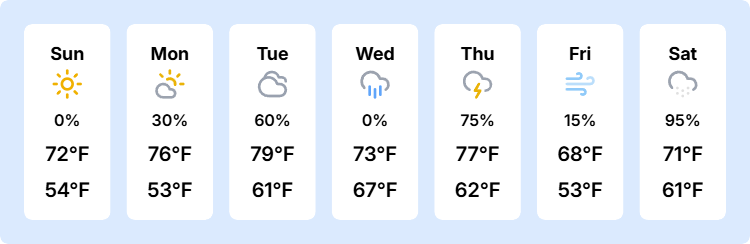
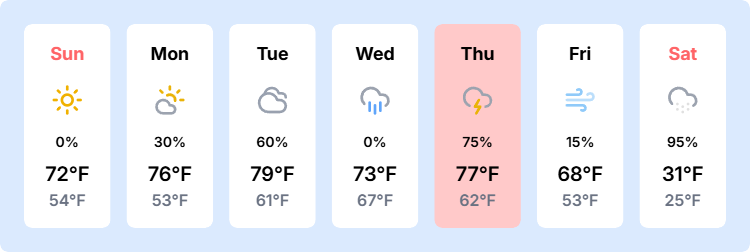
Modified temperature and precipitation display in forecast infographic (#23)

diff --git a/app/components/WeeklyForecast.tsx b/app/components/WeeklyForecast.tsx
@@ -1,9 +1,9 @@
-import type { JSX } from "react";
-import type { ForecastData } from "../types/ForecastDataTypes";
-import ConditionIcon from "./ConditionIcon";
+import type { JSX } from 'react'
+import type { ForecastData } from '../types/ForecastDataTypes'
+import ConditionIcon from './ConditionIcon'
 
 interface ForecastDataProps {
-    forecastData: ForecastData[];
+    forecastData: ForecastData[]
 }
 
 const WeeklyForecast = ({ forecastData }: ForecastDataProps): JSX.Element => {
@@ -18,23 +18,30 @@ const WeeklyForecast = ({ forecastData }: ForecastDataProps): JSX.Element => {
                             (severe ? 'bg-red-200' : 'bg-white')
                         }
                     >
-                        <span className="font-bold text-lg text-black">
+                        <span
+                            className={
+                                'font-bold mb-4 text-lg ' +
+                                (day === 'Sat' || day === 'Sun'
+                                    ? 'text-red-400'
+                                    : 'text-black')
+                            }
+                        >
                             {day}
                         </span>
                         <ConditionIcon condition={condition} />
-                        <span className="text-md font-semibold mt-2 text-black">
+                        <span className="text-sm font-semibold mt-4 text-black">
                             {precip}%
                         </span>
                         <span className="text-xl font-semibold mt-2 text-black">
                             {high}°F
                         </span>
-                        <span className="text-xl font-semibold mt-2 text-black">
+                        <span className="text-l font-semibold text-gray-500">
                             {low}°F
                         </span>
                     </div>
                 )
             )}
-            </>
+        </>
     )
 }
 
